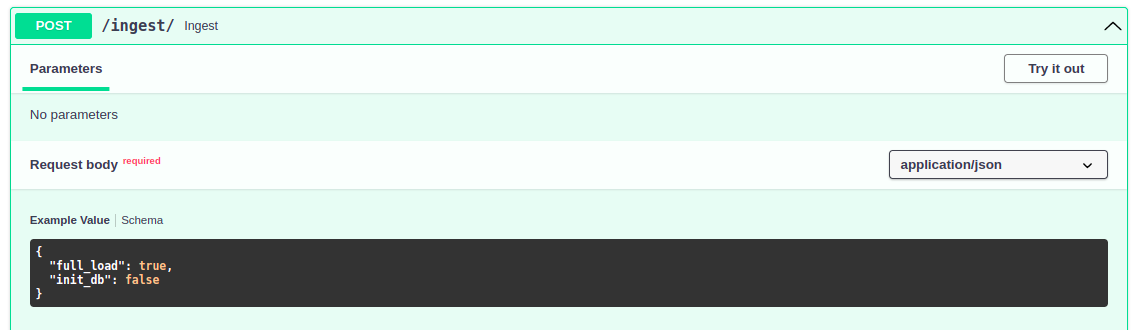
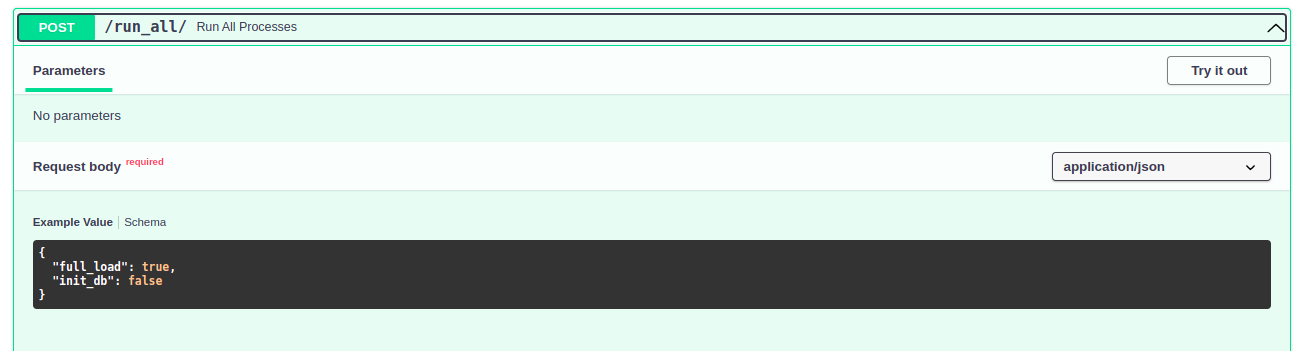
docs: running for the first time

Changed region(s): [[0.0, 0.0, 1.0, 1.0], [0.0, 0.1818, 0.1231, 0.3636], [0.0, 0.4545, 0.1539, 0.5455]]

diff --git a/README.md b/README.md
@@ -54,11 +54,12 @@ In the API docs you can see the available methods of the API in two categories:
         - *weekly_average_bounding_box*: Gets the weekly average number of trips defined by a bounding box.  
 
 ### Example run:
-You can run a process using the "Try it out" button of every method:
+You can run every process using the "Try it out" button of every method.  
+The first method you need to run is **run_all** (because the database is empty by default):
 
 ![Ingest](img/api_ingest.png?raw=true "Ingest")
 
-In this case, you can change the body parameters:   
+You can change the body parameters if it is necessary, but for now you can run with the default values:   
     - `full_load`: Cleans the table and then executes the data load.  
     - `init_db`: Drops and recreates all tables in the database.
 
